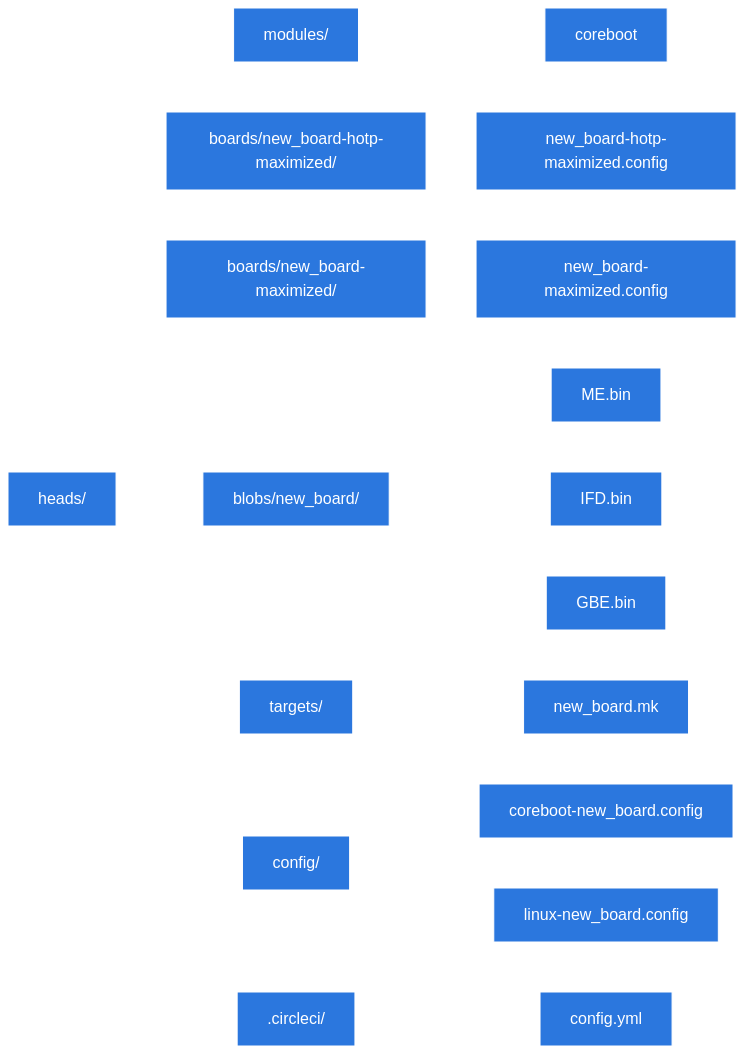
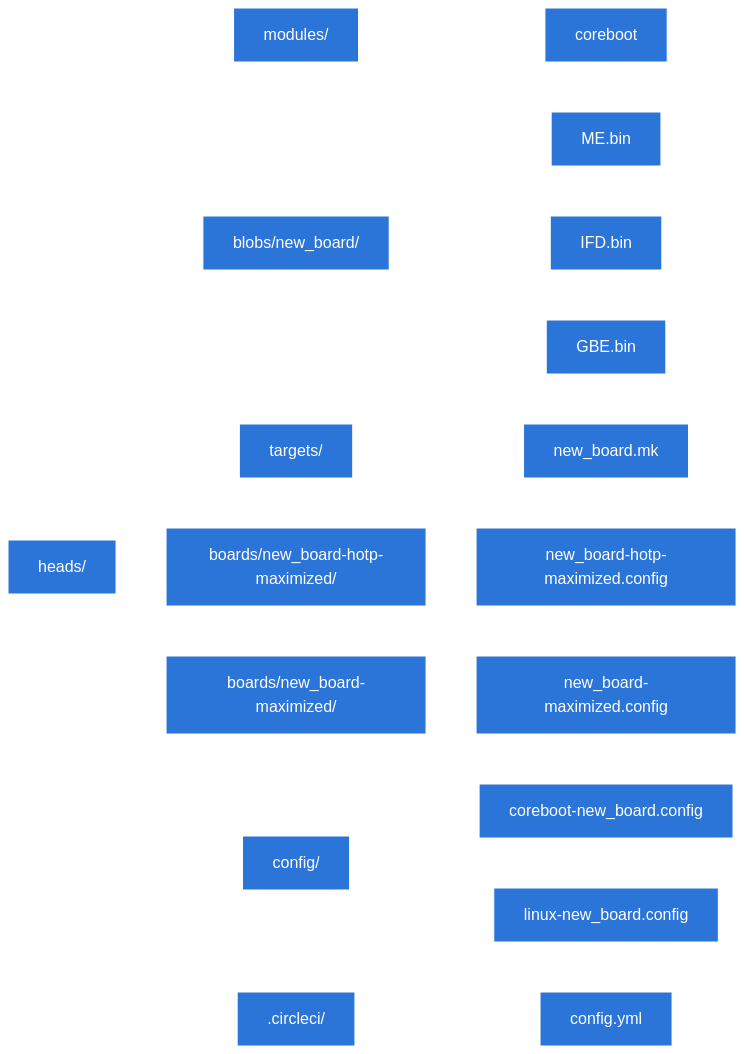
move blobs above the boardconfig, pick few suggetsted nitpicks, adjust the file scheme logic

diff --git a/Development/Porting.md b/Development/Porting.md
@@ -22,10 +22,11 @@ Prerequisites for porting Heads
 Prerequisites: 
 1. coreboot port:  since Heads is a coreboot payload, the board must have fully completed and actively maintained coreboot support. Any known issues should be acceptable to end users. Exceptions include the Purism and Dasharo coreboot forks, where coreboot is used from their respective forks.
 2. TPM module: Measured boot and the usable security features are at the core of what Heads is about. These features depend on the TPM. Therefore, the board must have a TPM module. If it uses fTPM and you plan to neuter the Intel Management Engine (ME), the fTPM must remain functional under coreboot even after neutering ME. Otherwise, a dTPM is required for this board.
-3. Technical skills: the person porting the board must have basic knowledge of coreboot, Linux, Bash, Git, and Python to complete the port. While the community is committed to helping, an alternative option is a financial contribution for [consultancy services](https://osresearch.net/Consultation-Services/).
-4. External programmer: an external programmer is required to flash Heads and, if necessary, to recover from a brick.
-5. Users and Board-testers: There should be multiple users and testers interested in using the board, as this makes maintenance and testing easier and benefits the entire ecosystem. You may, of course, port it for yourself first and allow others to join later. However, you must commit to testing—especially after coreboot version bumps or Linux kernel updates. If testing is not done in a timely manner, the board will be moved to an "unmaintained, untested" status. This would be unfortunate, potentially a waste of time, and disappointing for everyone involved.
-6. GPU: dGPUs are problematic in Heads for various reasons. While successful ports on older machines with dGPUs existed (e.g. [t530 and w530](https://github.com/linuxboot/heads/commit/a854144e2dbf14700491e3f1cb6f88e12d22197b)), security may be affected, and there is currently no clear solution for that. In case you are curious, please read a longer discussion on the Matrix coreboot channel starting with this [post](https://matrix.to/#/!EhaGFZyYcbyhdSgStq:matrix.org/$4OuJ9tPr8a_U6pwWgmjQxL0hnmpBzTATAHVl9gMvnfQ?via=matrix.org&via=tchncs.de&via=dodoid.com). 
+3. The final flash layout must have enough space for the Heads payload. Concretely, the size of the flash chip(s) must be at least be 12MB and the size of the BIOS region must be large enough to take the Heads payload. Usually, this means shrinking another region, the ME, and reallocating the freed space to the BIOS region. However, changing the ME blob or flash layout is not always possible as Intel Bootguard prevents booting with such modifications in most modern boards unless the board vendor chose otherwise.
+4. Technical skills: the person porting the board must have basic knowledge of coreboot, Linux, Bash, Git, and Python to complete the port. While the community is committed to helping, an alternative option is a financial contribution for [consultancy services](https://osresearch.net/Consultation-Services/).
+5. External programmer: an external programmer is required to flash Heads and, if necessary, to recover from a brick.
+6. Users and Board-testers: There should be multiple users and testers interested in using the board, as this makes maintenance and testing easier and benefits the entire ecosystem. You may, of course, port it for yourself first and allow others to join later. However, you must commit to testing—especially after coreboot version bumps or Linux kernel updates. If testing is not done in a timely manner, the board will be moved to an "unmaintained, untested" status. This would be unfortunate, potentially a waste of time, and disappointing for everyone involved.
+7. GPU: dGPUs are problematic in Heads for various reasons. While successful ports on older machines with dGPUs existed (e.g. [t530 and w530](https://github.com/linuxboot/heads/commit/a854144e2dbf14700491e3f1cb6f88e12d22197b)), security may be affected, and there is currently no clear solution for that. In case you are curious, please read a longer discussion on the Matrix coreboot channel starting with this [post](https://matrix.to/#/!EhaGFZyYcbyhdSgStq:matrix.org/$4OuJ9tPr8a_U6pwWgmjQxL0hnmpBzTATAHVl9gMvnfQ?via=matrix.org&via=tchncs.de&via=dodoid.com). 
 
 The scheme depicts a port cycle.
 ![Port cycle]({{ site.baseurl }}/images/Porting_cycle.png)
@@ -44,6 +45,21 @@ git checkout -b Poc_NEW_BOARD
 modules/coreboot:
 ---
 coreboot fork that will be used should be added under `heads/modules/coreboot`. This will be the version you reference from the board config files. You should aim for building the board with an existing coreboot version, usually the main version that most boards use. If you need a different coreboot version, consider patching an existing version without breaking any other boards depending on it, of course. However, if you need to add a new coreboot fork, it should be done here. This is not ideal and not recommended, as there are already 2 different coreboot forks. It often leads to maintenance and resources burden.
+
+binary blobs:
+---
+Check the coreboot configuration for the ported board. This will indicate which binary blobs are required and where they are expected to be located. Heads expects architecture-/board-specific scripts under `blobs/*` which do the magic, called by the main makefile that handles everything in Heads. These scripts must create reproducible binary blobs when invoked. The blobs should be placed in the `blobs/NEW_BOARD/`. Make sure the coreboot config file references the correct path for each blob and the blobs are added to `.gitignore` so that they are not accidentally committed to git.
+Generally,  three binary blobs are required: Management Engine (ME), Intel Flash Descriptor Region (IFD), and Gigabit Ethernet (GBE). The IFD and GBE can be extracted from a donor board using coreboot’s ifdtool. For more details, refer to the [upstream documentation](https://doc.coreboot.org/util/ifdtool/layout.html). On some boards it may be necessary to provide more blobs to coreboot, for instance an MRC blob for RAM initialization if coreboot cannot distribute the blob itself for legal reasons.
+
+Please note, if the ME is neutered, the IFD, coreboot CBFS region, and ME neutering space should be adjusted accordingly. Rationale: the ME region defined under IFD must fit. With the IFD ME region reduced, the BIOS region can grow with the freed ME space. With the BIOS region augmented, the CBFS region of the coreboot configuration must be increased to fit the ["maximized" space](https://osresearch.net/Prerequisites#legacy-vs-maximized-boards).
+
+Please note the GBE MAC address should be forged to: `00:DE:AD:C0:FF:EE MAC`. It can be done with [nvmutil](https://libreboot.org/docs/install/nvmutil.html). Due to licensing restrictions, the ME firmware cannot be uploaded to the GitHub. However, scripts can be used to build it locally and within CircleCI (a gray area legally, but still possible). GBE and IFD blobs can be uploaded directly to GitHub. Please explain how they were obtained in the commit message.
+* Note: When calling scripts in Nix-based environments, Python must be invoked explicitly, as Nix does not allow executing Python scripts directly from files. One can use last clean example for t480: `python ./finalimage.py` will work and just `./finalimage.py` will not work. 
+The blobs folder should have a script.sh which handles downloading, deactivating ME etc. It should also contain a README.md file briefly explaining the process. Hashes of the blobs should be stored either in `README.md` or in `hashes.txt file`. Furthermore, the script must ensure the integrity of the blobs it produced by comparing a SHA256 hash.
+
+NEW_BOARD.mk:
+---
+Create a new `heads/targets/NEW_BOARD.mk` file which deals with calling blobs/script.sh*, download and extraction, and placing the blobs in correct location. This will be used by the main makefile and defines the board specific targets and dependencies, such as the binary blobs. For additional details, please see [Makefiles]({{ site.baseurl }}/Development/make-details.md).
 
 board.config: 
 ---
@@ -69,31 +85,16 @@ export CONFIG_PRIMARY_KEY_TYPE=ecc
 #TPM1 requirements
 #export CONFIG_TPM=y
 ```
-In the configuration, the path to the folder containing binary blobs must be specified. It is the line at the bottom of the board config `BOARD_TARGETS := NEW_BOARD` declaring the dependency. It corresponds to the name of the `mk file` referencing the needed binary blobs. These are required by coreboot for building the ROM.
-
-binary blobs:
----
-Check the coreboot configuration for the ported board. This will indicate which binary blobs are required and where they are expected to be located. Heads has architecture-/board-specific scripts under `blobs/*` which do the magic, called by the main makefile that handles everything in Heads. These scripts must create reproducible binary blobs when invoked. The blobs should be placed in the `blobs/NEW_BOARD/`. Make sure the coreboot config file references the correct path for each blob.
-Generally,  three binary blobs are required: Management Engine (ME), Intel Flash Descriptor Region (IFD), and Gigabit Ethernet (GBE) The IFD and GBE can be extracted from a donor board using coreboot’s ifdtool. For more details, refer to the [upstream documentation](https://doc.coreboot.org/util/ifdtool/layout.html). On some boards it may be necessary to provide more blobs to coreboot, for instance an MRC blob for ram initialization if coreboot cannot distribute the blob itself for legal reasons.
-
-Please note, if the ME is neutered, the IFD, coreboot CBFS region, and ME neutering space should be adjusted accordingly. Rationale: the ME region defined under IFD must fit. With the IFD ME region reduced, the BIOS region can grow with the freed ME space. With the BIOS region augmented, the CBFS region of the coreboot configuration must be increased to fit the ["maximized" space](https://osresearch.net/Prerequisites#legacy-vs-maximized-boards).
-
-Please note the GBE MAC address should be forged to: `00:DE:AD:C0:FF:EE MAC`. It can be done with [nvmutil](https://libreboot.org/docs/install/nvmutil.html). Due to licensing restrictions, the ME firmware cannot be uploaded to the GitHub. However, scripts can be used to build it locally and within CircleCI (a gray area legally, but still possible).
-* Note: When calling scripts in Nix-based environments, Python must be invoked explicitly, as Nix does not allow executing Python scripts directly from files. One can use last clean example for t480: `python ./finalimage.py` will work and just `./finalimage.py` will not work. 
-The blobs folder should have a script.sh which handles downloading, deactivating ME etc. It should also contain a README.md file briefly explaining the process. Hashes of the blobs should be stored either in `README.md` or in `hashes.txt file`. Furthermore, the script must ensure the integrity of the blobs it produced by comparing a SHA256 hash.
-
-NEW_BOARD.mk:
----
-Create a new `heads/targets/NEW_BOARD.mk` file which deals with calling blobs/script.sh*, download and extraction, and placing the blobs in correct location. This will be used by the main makefile and defines the board specific targets and dependencies, such as the binary blobs. For additional details, please see [Makefiles]({{ site.baseurl }}/Development/make-details.md).
+In the configuration, the binary blobs must be specified as build targets, as coreboot depends on these blobs. It is the line at the bottom of the board config `BOARD_TARGETS := NEW_BOARD`. It ensures that the main Heads makefile builds the targets specified in the `NEW_BOARD.mk` file.
 
 coreboot.config:
 ---
-You need a coreboot configuration for the new board. Ideally, this config should be adapted from the closest possible platform. You can inspect existing configurations for boards in the master branch and select one with a similar architecture, if available. Next, you can create a coreboot config by copying it from closest platform and adapt it accordingly. You may use coreboot's `make menuconfig` for `NEW_BOARD`:
+You need a coreboot configuration for the new board. Ideally, this config should be adapted from the closest possible platform. You can inspect existing configurations for boards in the master branch and select one with a similar architecture, if available. Next, you can create a coreboot config by copying it from the closest platform and adapt it accordingly. You may use coreboot's `make menuconfig` for `NEW_BOARD`:
 ```shell
 cp config/coreboot-CLOSEST_PLATFORM.config config/coreboot-NEW_BOARD.config
 ./docker_repro.sh make coreboot.modify_and_save_oldconfig_in_place
 ```
-Note, the configuration needs to define the correct path references to all binary blobs, that are not provided by coreboot, on most architectures this includes at least `IFD`, `ME` and `GBE`(see below). The configuration file path should be: `heads/config/coreboot-NEW_BOARD.config`.
+Note, the configuration needs to define the correct path references to all binary blobs, that are not provided by coreboot, on most architectures this includes at least `IFD`, `ME` and `GBE` (see above). The configuration file path should be: `heads/config/coreboot-NEW_BOARD.config`.
 * Note:
 TPM measured boot (```CONFIG_TPM_MEASURED_BOOT=y```) and verified boot (```CONFIG_VBOOT_LIB=y```) should be enabled. Ensure that you select CONFIG_TPM_MEASURED_BOOT and CONFIG_VBOOT_LIB in Kconfig. Furthermore, enable the TPM and pick the correct TPM version for the board. 
 Other parameters depend on the board. It is up to you to determine the correct settings, as not all community members will have access to your board. `git diff` between `coreboot-CLOSEST_PLATFORM.config` and `coreboot-NEW_BOARD.config` may help.
@@ -114,7 +115,7 @@ Modify `heads/.circleci/config.yml` to add support for the `NEW_BOARD`. Initiall
           requires:
             - x86-musl-cross-make
 ```
-CircleCI creates reproducible builds, allowing users to verify that the "flashable" roms were indeed produced by the given source code. In the development/debugging phase, it helps to ensure that you talk about the same build. It optimizes the collaboration between peers-board owners. Moreover, CI builds are significantly faster than local builds, reducing overall development time. As circleCI always builds all boards it makes it easier to find regression early.
+CircleCI creates reproducible builds, allowing users to verify that the "flashable" roms were indeed produced by the given source code. In the development/debugging phase, it helps to ensure that you talk about the same build. It optimizes the collaboration between peers-board owners. Moreover, CI builds are significantly faster than local builds, reducing overall development time. As circleCI always builds all boards it makes it easier to find regressions early.
 
 * Optional: local builds.
 If you need to build locally (e.g. to ensure that some features work) pay attention to the helper functions at the end of the Makefiles. It is strongly recommended that local builders review the end of the Makefiles (including modules/*files), as these helper functions were designed to facilitate coreboot and Linux version bumps.
@@ -144,14 +145,11 @@ For thorough testing—especially for a new board—using the following template
 - [ ] OS `X.Y.Z.` install and reboot
 - [ ] Heads functionality- no pubkey detected, but OS detected -> OEM-Factory-reset proposed. Done with `X.Y.Z.` hardwarekey e.g. nk3
 - [ ] On reboot after re-ownership: generate new HOTP/TOTP
-- [ ] On reboot: default boot proposes to choose boot default + TPM DUK
-- [ ] TPM DUK boots OS version `X.Y.Z.`
-- [ ] TPM DUK boots QubesOS `X.Y.Z.`
 - [ ] wifi works based on OS `X.Y.Z.`
 - [ ] PR0
-* flashprog -p internal (not locked)
-* lock_chip (locks the platform with PR0, if PR0 patch applied in fork or under `patches/coreboot-X.Y.Z.` and coreboot config contain proper preparation of the platform)
-* flashprog -p internal (reports locked)
+    - [ ] flashprog -p internal (not locked)
+    - [ ] lock_chip (locks the platform with PR0, if PR0 patch applied in fork or under `patches/coreboot-X.Y.Z.` and coreboot config contain proper preparation of the platform)
+    - [ ] flashprog -p internal (reports locked)
 ```
 
 Debugging
